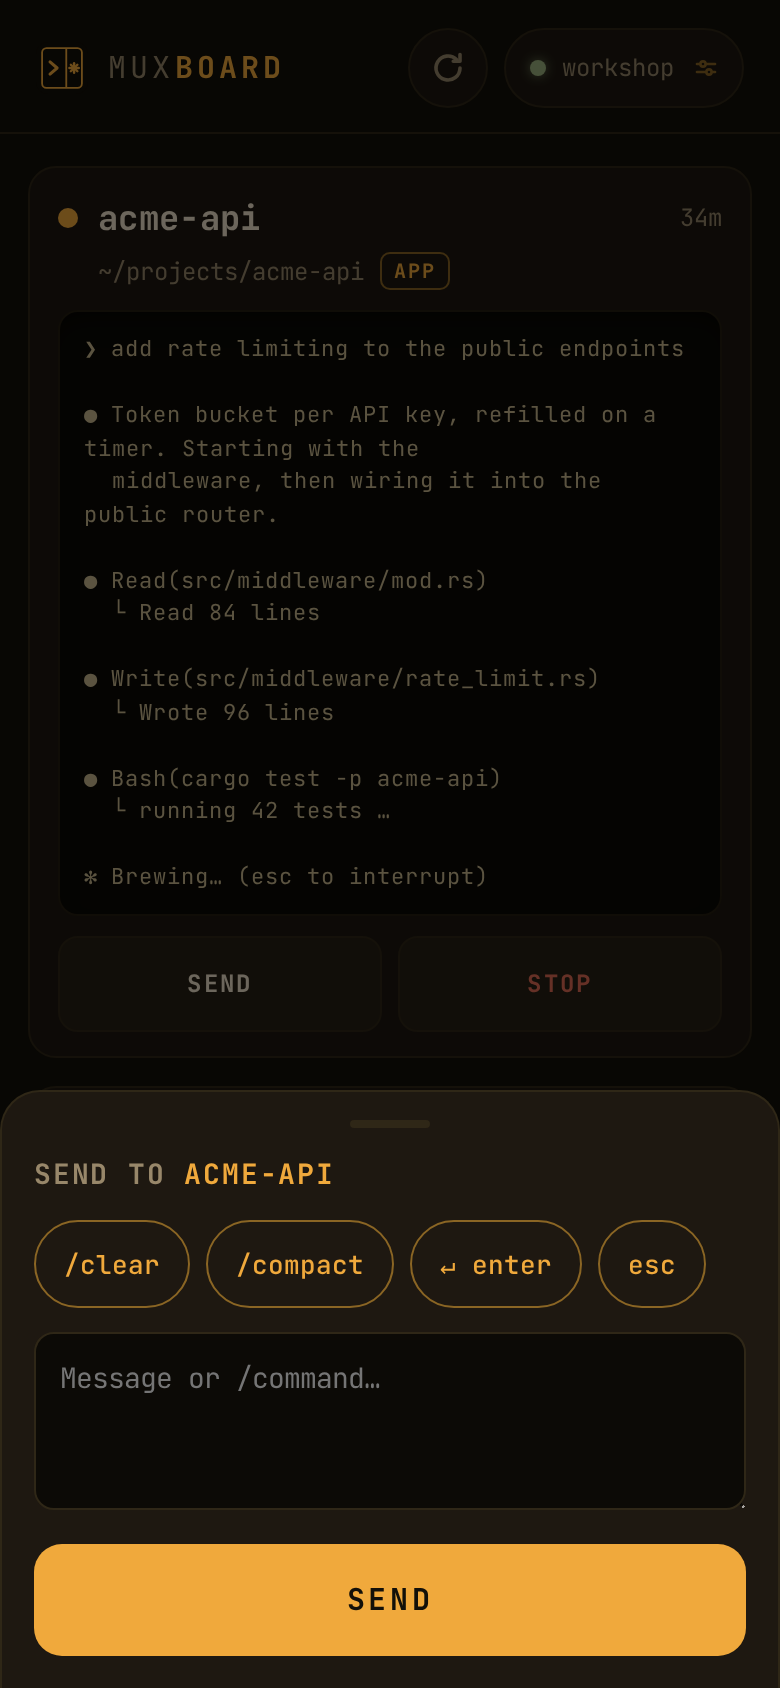
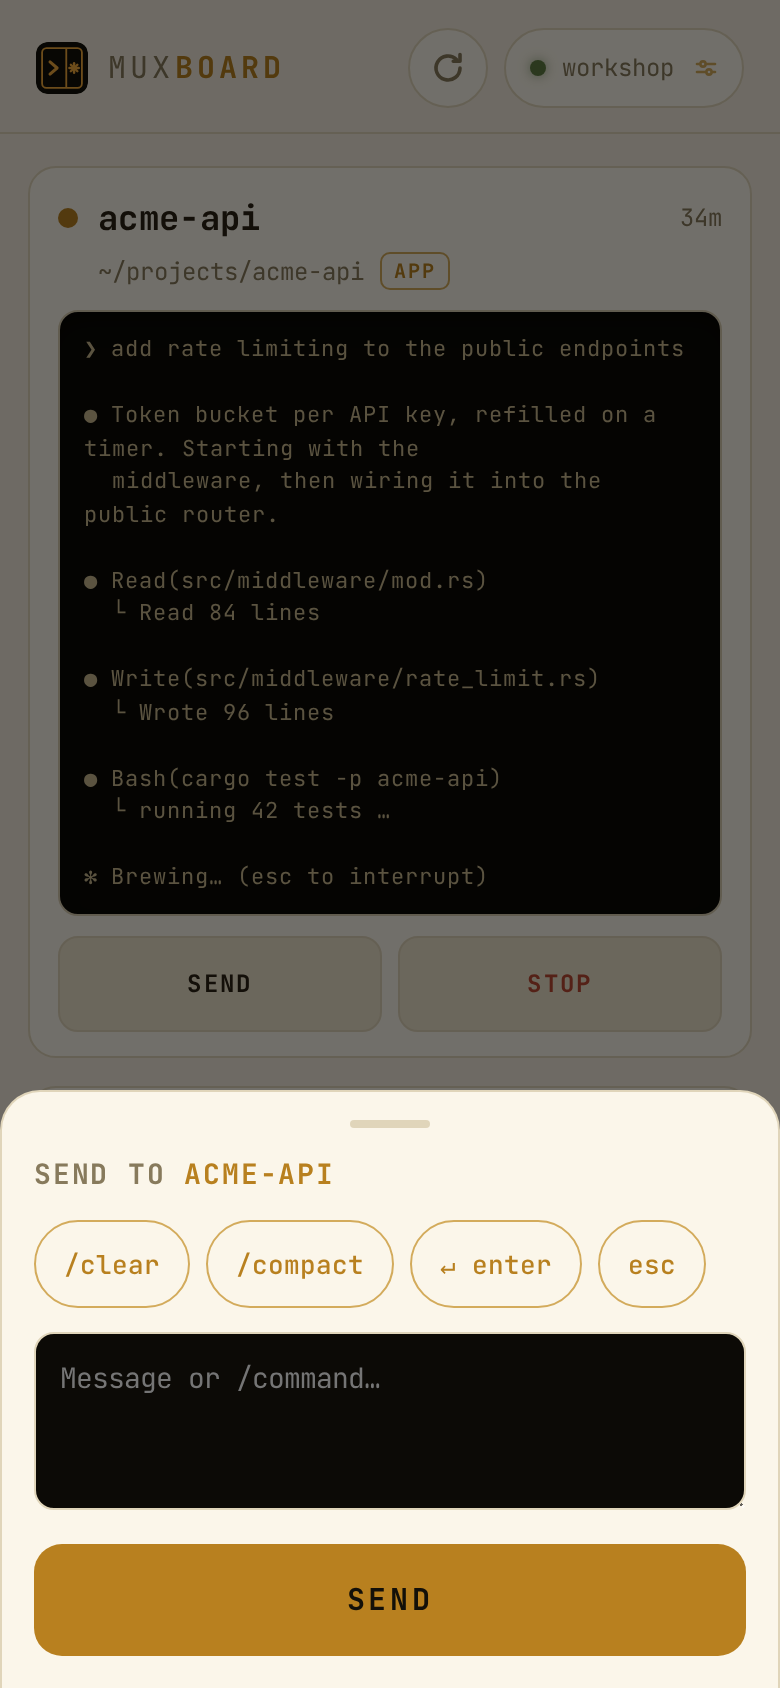
docs: light-mode media, settings as one animated GIF
Three settings stills said less than one loop through them, and the
mixed dark/light set made the README look like two apps. Everything is
now light mode, and the settings sheet cycles folders → shortcuts →
security as an 80KB GIF built from real captures.

The crop is sized to the tallest panel, since the sheet is
bottom-anchored and a box measured on the shortest one clipped the
title off the others.

diff --git a/README.md b/README.md
@@ -10,7 +10,7 @@ a fast way to **see / start / poke / stop** those sessions from that same phone.
 Muxboard is the session manager, not another terminal.
 
 <p align="center">
-  <img src="docs/dashboard-dark.png" alt="Session cards showing a working session and one that needs input" width="290">
+  <img src="docs/dashboard.png" alt="Session cards showing a working session and one that needs input" width="290">
   <img src="docs/send-sheet.png" alt="Send sheet with user-defined shortcut chips" width="290">
 </p>
 
@@ -73,8 +73,7 @@ your phone* below.
 ## Configure
 
 <p align="center">
-  <img src="docs/settings.png" alt="Settings sheet with folders, shortcuts, and security sections" width="290">
-  <img src="docs/dashboard-light.png" alt="The same dashboard in light theme" width="290">
+  <img src="docs/settings.gif" alt="Settings sheet cycling through its folders, shortcuts, and security sections" width="290">
 </p>
 
 Muxboard follows your system light/dark theme; the terminal screens stay dark in
